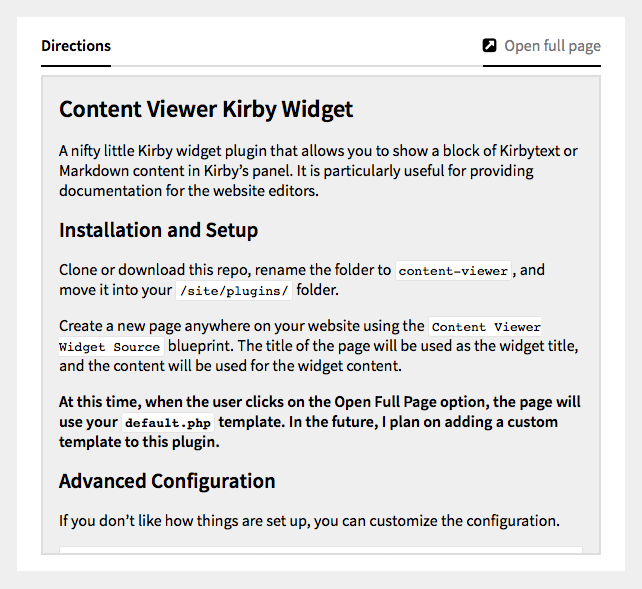
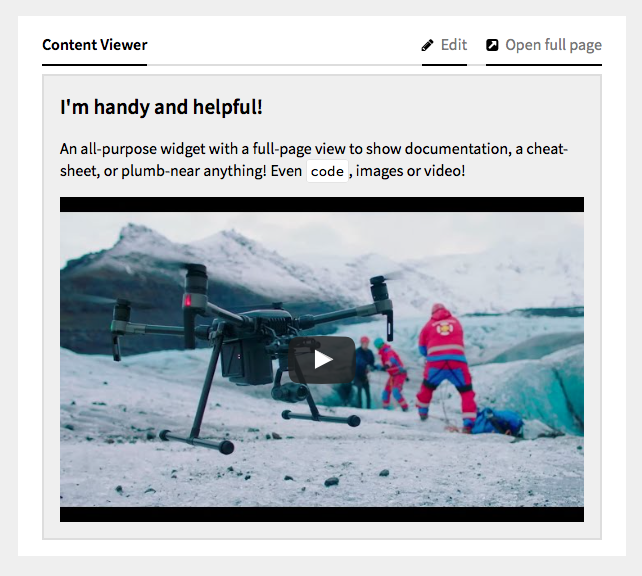
1.2.0 release

diff --git a/README.md b/README.md
@@ -1,6 +1,6 @@
 # Content Viewer Kirby Widget
 
-A nifty little Kirby widget plugin that allows you to show a block of Kirbytext or Markdown content in Kirby's panel. It is particularly useful for providing documentation for the website editors.
+A nifty little [Kirby](https://getkirby.com) widget that allows you to show a block of Kirbytext or Markdown content in Kirby's panel. It is particularly useful for providing documentation for website editors.
 
 ![Screenshot of the widget](screenshot.png)
 
@@ -10,18 +10,16 @@ Clone or [download](https://github.com/CalebGrove/content-viewer/archive/master.
 
 	kirby plugin:install CalebGrove/content-viewer
 
-Using the panel, create a new page anywhere on your website. For the page template, choose `Content Viewer Widget`. The title of the page will be used as the widget title, and the content will be used for the widget content.
+Now, open up the panel and you should see the new widget on the dashboard. To change the content, click on the **Edit** button at the top-right of the widget. **This option will *only* be visible to users with the role of administrator.**
 
-## Advanced Configuration
+If you want to customize the CSS, you may do so by copying the  `styles.css` file from this plugin's `assets` folder to `/assets/plugins/content-viewer/styles.css`. Kirby will now serve your version of the file, and updating this plugin won't overwrite it.
 
-If you don't like how things are set up, you can customize the configuration.
+## Changelog
 
-	c::set('plugin.content-viewer.widget.page', page());
-A page object that will be used for the content viewer. Accepted value: Any single page object. Default: `panel()->site()->index()->findBy('intendedTemplate', 'content-viewer-source')`
+### 1.2.0
 
-
-	c::set('plugin.content-viewer.widget.field', 'fieldname');
-The field name (from the page, see above) that will be used for the content viewer. Accepted value: Any text field name from the page. Default: `text`
-
-	c::set('plugin.content-viewer.widget.title', 'Widget Title');
-The widget title that will be displayed in the panel. Accepted value: Any string. Default: `$page->title()`
+* [Much DRYer CSS](https://github.com/CalebGrove/content-viewer/issues/1).
+* The content page will no longer be visible in the panel, instead, users with the role of Administrator will see a new **Edit** option for the widget.
+* The full page view is no longer publicly visible. Now, the user must be logged in and have panel access to view it.
+* When the plugin is loaded for the first time, it will create the page automatically and prompt you to edit it.
+* Advanced config options were removed as my implementation of them was just too buggy.
